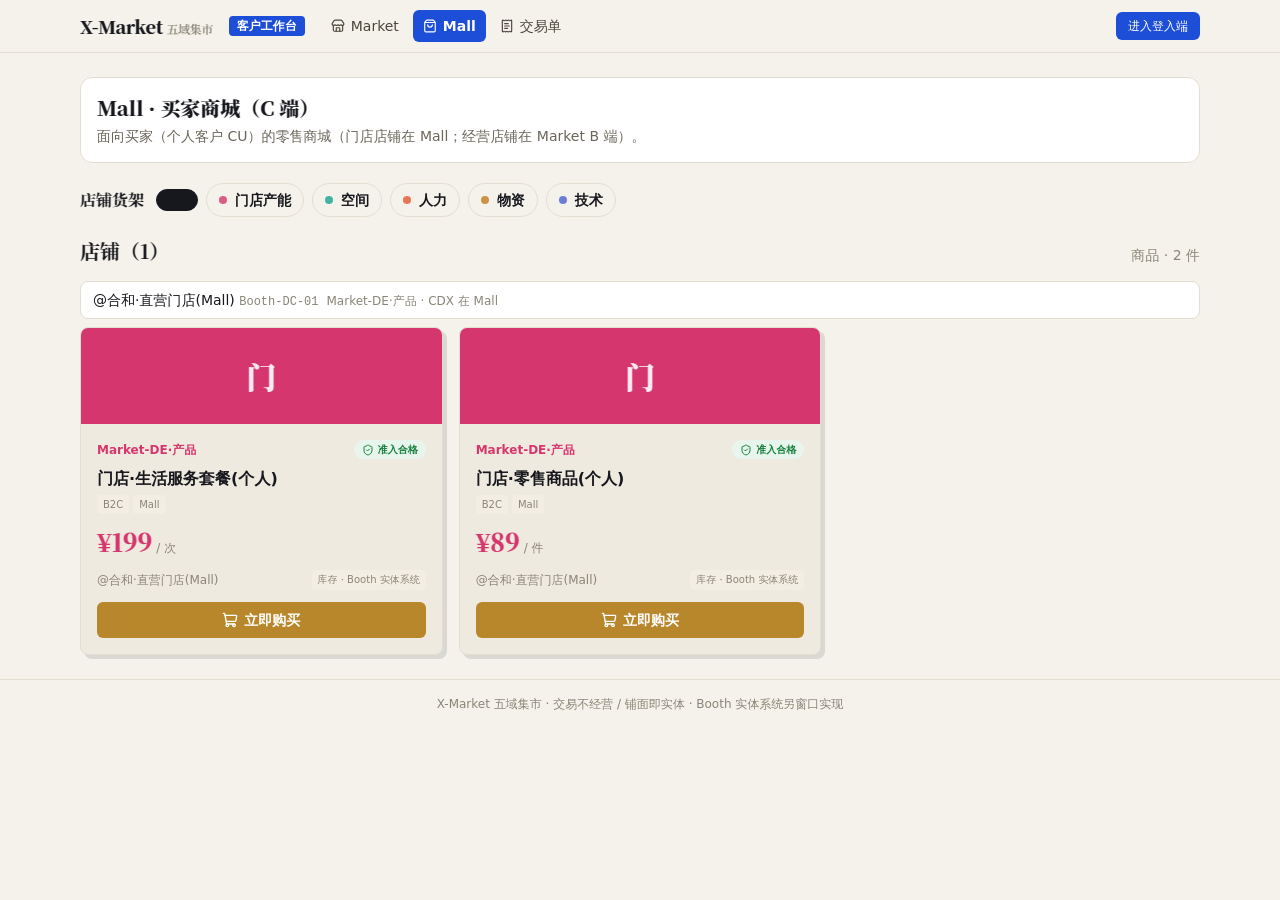
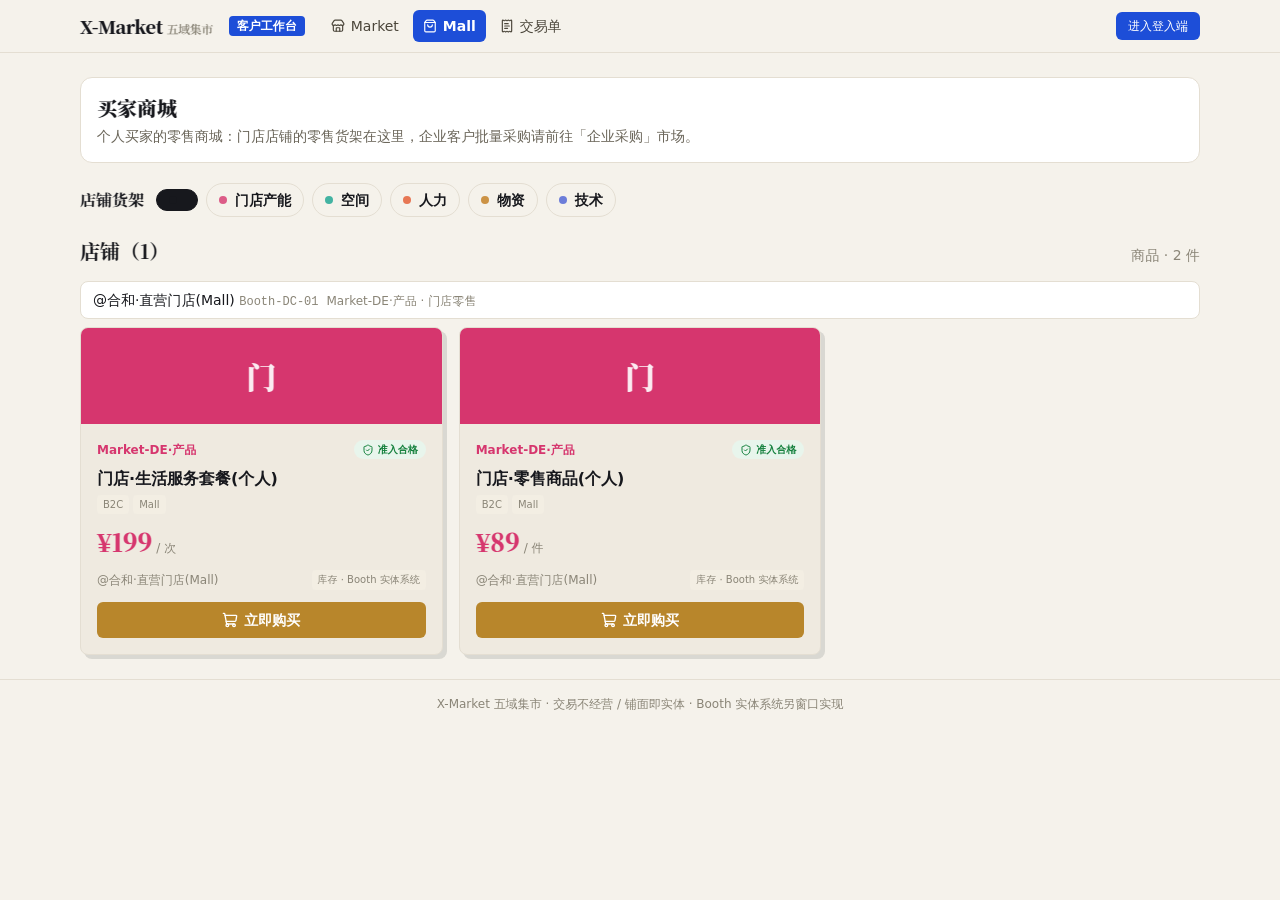
fix(ux): X-MARKET-UX-01 体验断链修复（P0 批次）
- FIX1 游客点「立即购买」弹「需要登入」确认卡（去登入端链接），嵌入/游客不再静默吞点击
- FIX2 待付款→「待店铺交付」+「演示环境暂不支持在线支付」说明（交易单页客户视角）
- FIX3 跳过引导持久化复现实证 4/4 已生效（脚本固化防回归）
- FIX4 下单成功横条加「查看交易单 →」一键跳转
- FIX5 留痕台账文案对齐实际（C 端购买不进审计，改越权/治理留痕口径）
- FIX6 术语收敛第一批：登入端企业容器/角色卡、交易单页、Mall、引导浮层去 DU/*U/V*M/六族等工程代号（六族折叠进详情）
- 回归：ux01-shots 15/15 + embed-e2e 8/8 + lint/ts-check 全绿

Changed region(s): [[0.0625, 0.0933, 0.5, 0.1556], [0.3438, 0.3111, 0.375, 0.3422]]

diff --git a/src/pages/Mall.tsx b/src/pages/Mall.tsx
@@ -2,7 +2,7 @@
 // X-MARKET-UE-02：商品卡营销化（价格/准入/店铺归属/库存归属）+ 立即购买确认弹层（P0 防误触下单）+ 双称呼试行。
 import { useEffect, useMemo, useState } from 'react';
 import { Link } from 'react-router-dom';
-import { FileClock, ShoppingCart, ShieldCheck, Minus, Plus, X } from 'lucide-react';
+import { FileClock, ShoppingCart, ShieldCheck, Minus, Plus, X, CheckCircle2, ArrowRight } from 'lucide-react';
 import { api } from '../api/client';
 import type { MallListing, DecoratedBooth } from '../api/client';
 import PowerAuditList from '../components/PowerAuditList';
@@ -27,6 +27,10 @@ export default function Mall() {
   // P0 防误触：点击立即购买先弹确认层
   const [buyTarget, setBuyTarget] = useState<BuyTarget | null>(null);
   const [buying, setBuying] = useState(false);
+  // UX-01 FIX1：游客（含嵌入握手未完成）点购买 → 登入引导弹层（严禁静默吞点击）
+  const [needLogin, setNeedLogin] = useState(false);
+  // UX-01 FIX4：下单成功回执条（含「查看交易单 →」一键跳转）
+  const [doneOrder, setDoneOrder] = useState<{ code: string; amountCents: number } | null>(null);
 
   useEffect(() => { void api.mallBooths().then(setBooths); }, []);
   useEffect(() => {
@@ -37,8 +41,9 @@ export default function Mall() {
   const mallBooths = booths.filter((b) => b.clientFace === 'mall' && (!active || b.marketCode === active));
 
   const openConfirm = (l: MallListing): void => {
-    if (!user) { setNotice('请先登录（买家 CU 自然人客户）'); return; }
+    if (!user) { setNeedLogin(true); return; }
     setNotice('');
+    setDoneOrder(null);
     setBuyTarget({ listing: l, qty: 1 });
   };
 
@@ -48,7 +53,7 @@ export default function Mall() {
     const { listing: l, qty } = buyTarget;
     setBuying(true);
     api.createOrder({ boothId: l.boothId, listingId: l.id, amountCents: l.priceCents * qty, side: 'C' })
-      .then((o) => { setNotice(`下单成功：${o.code} · ${money(o.amountCents)} · 待店铺交付`); setBuyTarget(null); })
+      .then((o) => { setDoneOrder({ code: o.code, amountCents: o.amountCents }); setNotice(''); setBuyTarget(null); })
       .catch((e: unknown) => setNotice(e instanceof Error ? e.message : '下单失败'))
       .finally(() => setBuying(false));
   };
@@ -56,8 +61,8 @@ export default function Mall() {
   return (
     <div>
       <div className="rounded-xl border bg-white p-4 mb-5">
-        <p className="font-serif-display text-xl font-black">Mall · 买家商城（C 端）</p>
-        <p className="mt-1 text-sm text-[#6b665a]">面向买家（个人客户 CU）的零售商城（门店店铺在 Mall；经营店铺在 Market B 端）。</p>
+        <p className="font-serif-display text-xl font-black">买家商城</p>
+        <p className="mt-1 text-sm text-[#6b665a]">个人买家的零售商城：门店店铺的零售货架在这里，企业客户批量采购请前往「企业采购」市场。</p>
       </div>
 
       <div className="mb-5 flex flex-wrap items-center gap-2">
@@ -68,13 +73,23 @@ export default function Mall() {
         ))}
       </div>
 
+      {doneOrder && (
+        <div className="mb-4 flex flex-wrap items-center justify-between gap-2 rounded-lg border border-[#bfe3c8] bg-[#eef8f0] px-4 py-2.5 text-sm text-[#166534]">
+          <span className="flex items-center gap-1.5 font-semibold">
+            <CheckCircle2 className="h-4 w-4" /> 下单成功 · {doneOrder.code} · {money(doneOrder.amountCents)} · 待店铺交付（演示环境暂不支持在线支付）
+          </span>
+          <Link to="/orders" className="inline-flex items-center gap-1 rounded-md bg-[#15803D] px-3 py-1.5 text-xs font-bold text-white hover:opacity-90">
+            查看交易单 <ArrowRight className="h-3.5 w-3.5" />
+          </Link>
+        </div>
+      )}
       {notice && <div className="mb-4 rounded-lg bg-[#e8e0cb] px-4 py-2 text-sm font-medium text-[#7a5c16]">{notice}</div>}
 
       <SectionTitle sub={`${conceptTerm('product').big} · ${listings.length} 件`}>店铺（{mallBooths.length}）</SectionTitle>
       {mallBooths.map((b) => (
         <Link key={b.id} to={`/mall/booth/${b.id}`} className="mb-2 block rounded-lg border bg-white px-3 py-2 text-sm hover:bg-[#efeae0]">
           @{b.name} <span className="font-mono text-xs text-[#8a8577]">{b.code}</span>
-          <span className="ml-2 text-xs text-[#8a8577]">{marketLabel(b.marketCode)} · CDX 在 Mall</span>
+          <span className="ml-2 text-xs text-[#8a8577]">{marketLabel(b.marketCode)} · 门店零售</span>
         </Link>
       ))}
 
@@ -126,7 +141,7 @@ export default function Mall() {
           <p className="flex items-center gap-2 font-serif-display text-lg font-black">
             <FileClock className="h-4 w-4" style={{ color: '#b8862b' }} /> 我的<DualTerm kind="powerAudit" />
           </p>
-          <p className="mt-1 text-xs text-[#8a8577]">购买与越权尝试全部留痕，仅本人可见。</p>
+          <p className="mt-1 text-xs text-[#8a8577]">越权操作与平台治理动作会留痕（购物进度请看上方交易单入口），仅本人可见。</p>
           <PowerAuditList scope="mine" accent="#b8862b" compact />
         </div>
       )}
@@ -166,6 +181,31 @@ export default function Mall() {
               <button onClick={confirmBuy} disabled={buying} className="flex-1 rounded-md bg-[#b8862b] py-2 text-sm font-semibold text-white hover:opacity-90 disabled:opacity-50">
                 {buying ? '下单中…' : '确认下单'}
               </button>
+            </div>
+          </div>
+        </div>
+      )}
+
+      {/* UX-01 FIX1：游客/嵌入未登入点购买 → 登入引导弹层（不静默吞点击） */}
+      {needLogin && (
+        <div className="fixed inset-0 z-50 flex items-center justify-center bg-black/40 px-4" onClick={() => setNeedLogin(false)}>
+          <div className="w-full max-w-sm rounded-xl border bg-white p-5 shadow-[4px_4px_0_rgba(23,24,29,0.2)]" onClick={(e) => e.stopPropagation()} role="dialog" aria-label="需要登入">
+            <div className="flex items-start justify-between gap-3">
+              <p className="font-serif-display text-lg font-black">需要登入后下单</p>
+              <button onClick={() => setNeedLogin(false)} className="rounded p-1 text-[#8a8577] hover:bg-[#efeae0]" aria-label="关闭">
+                <X className="h-4 w-4" />
+              </button>
+            </div>
+            <p className="mt-1 text-sm text-[#6b665a]">下单需要先登入买家 / 采购方账号（下单后由店铺直接安排交付，本演示环境无需在线支付）。</p>
+            <div className="mt-4 flex gap-2">
+              <button onClick={() => setNeedLogin(false)} className="flex-1 rounded-md border py-2 text-sm hover:bg-[#efeae0]">先逛逛</button>
+              <Link
+                to="/entrance"
+                className="flex flex-1 items-center justify-center gap-1 rounded-md bg-[#17181d] py-2 text-sm font-semibold text-white hover:opacity-90"
+                onClick={() => setNeedLogin(false)}
+              >
+                去登入端 <ArrowRight className="h-4 w-4" />
+              </Link>
             </div>
           </div>
         </div>

diff --git a/src/entrance/entrance.ts b/src/entrance/entrance.ts
@@ -10,8 +10,8 @@ export const containerOf = (hatRole: string | null | undefined): ContainerKind =
   hatRole === 'XU' || hatRole === 'CU' ? 'personal' : 'enterprise';
 
 export const CONTAINER_META: Record<ContainerKind, { code: string; name: string; desc: string; accent: string }> = {
-  personal: { code: '#xhpz', name: '个人容器', desc: '自然人视角：Mall 买家购物 / 企业客户采购（个人侧兼容入口）', accent: '#1D4ED8' },
-  enterprise: { code: '#xepz', name: '企业容器', desc: '单位视角：经营 DU / 供给 *U·EX / 治理 V*M（Market 与 Supply 双面）', accent: '#17181d' },
+  personal: { code: '#xhpz', name: '个人容器', desc: '个人购物与采购：商城买家购物 / 企业客户采购（个人侧兼容入口）', accent: '#1D4ED8' },
+  enterprise: { code: '#xepz', name: '企业容器', desc: '单位视角：开店经营 / 供货入驻 / 平台管理（一个企业账号可办理多种业务）', accent: '#17181d' },
 };
 
 /** 预留容器（本单不开放，仅置灰展示） */
@@ -27,25 +27,25 @@ export interface RoleBrief {
 
 /** 角色卡目录（角色·界面归位矩阵 v3 口径） */
 export const ROLE_BRIEF: Record<string, RoleBrief> = {
-  XU: { face: 'Market · 客户面', duty: '企业采购：五市场浏览 / B2B 询价报价 / 订单跟进；第二身份：客户资源供给方（B端客户资源 · 授权式贡献，不占权位）' },
-  CU: { face: 'Mall · 客户面', duty: '买家购物：商城浏览 / 立即购买 / 订单跟进；第二身份：客户资源供给方（C端客户资源 · 授权式贡献，不占权位）' },
-  DU: { face: 'Market · 经营面', duty: '分经营号经营（*DU）：铺面管理 / 询价报价 / 采购商城 / 履约衔接' },
-  DYX: { face: 'Market · 经营面', duty: '业务执行（*DX·L1）：履约执行回执 / 铺内作业（办位）' },
-  DHX: { face: 'Market · 经营面', duty: '业务执行（*DX·L1）：履约执行回执 / 铺内作业（办位）' },
-  DTX: { face: 'Market · 经营面', duty: '业务执行（*DX·L1）：履约执行回执 / 铺内作业（办位）' },
-  DEX: { face: 'Market · 经营面', duty: '业务执行（*DX·L1）：履约执行回执 / 铺内作业（办位）' },
-  DCX: { face: 'Market · 经营面', duty: '业务执行（*DX·L1）：履约执行回执 / 铺内作业（办位）' },
-  EU: { face: 'Supply · 供给面', duty: '通货供货商经营：准入登记 / 货品上下架 / 供给单接单报价' },
-  HU: { face: 'Supply · 供给面', duty: '人力供货商经营：准入登记 / 货品上下架 / 供给单接单报价' },
-  YU: { face: 'Supply · 供给面', duty: '云资源供货商经营：准入登记 / 货品上下架 / 供给单接单报价' },
-  TU: { face: 'Supply · 供给面', duty: '技术供货商经营：准入登记 / 货品上下架 / 供给单接单报价' },
-  EX: { face: 'Supply · 供给面', duty: '供给执行：物资登记 / 铺面维护 / 看单（办位）' },
-  EXX: { face: 'Supply · 供给面', duty: '供给执行：铺内作业 / 看单（办位）' },
-  VDM: { face: 'Market+Supply · 经营治理与管家审批面', duty: '总经营管理执行（归 OVM，X-MARKET-18 v1.2）：治理案件 / 规则 / 全局总账 / 三权审计 + supply 管家审批全域统筹（准入审核/货品审批/大额审批/阈值配置）' },
-  VEM: { face: 'Supply · 管家审批面', duty: 'E 源域内管家审批：通货源准入审核与货品审批（EMX）' },
-  VHM: { face: 'Supply · 管家审批面', duty: 'H 源域内管家审批：人力源准入审核与货品审批（HMX）' },
-  VYM: { face: 'Supply · 管家审批面', duty: 'Y 源域内管家审批：云资源源准入审核与货品审批（YMX）' },
-  VTM: { face: 'Supply · 管家审批面', duty: 'T 源域内管家审批：技术源准入审核与货品审批（TMX · 技术运营管理白名单兼任）' },
+  XU: { face: '企业采购', duty: '企业采购：浏览市场 / 询价报价 / 订单跟进；第二身份：客户资源供给方（客户资源可授权共享，自愿参与）' },
+  CU: { face: '买家商城', duty: '买家购物：逛商城 / 立即购买 / 订单跟进；第二身份：客户资源供给方（客户资源可授权共享，自愿参与）' },
+  DU: { face: '店铺经营', duty: '开店经营：铺面管理 / 询价报价 / 采购进货 / 履约衔接' },
+  DYX: { face: '店铺执行', duty: '店员执行：履约执行回执 / 铺内作业' },
+  DHX: { face: '店铺执行', duty: '店员执行：履约执行回执 / 铺内作业' },
+  DTX: { face: '店铺执行', duty: '店员执行：履约执行回执 / 铺内作业' },
+  DEX: { face: '店铺执行', duty: '店员执行：履约执行回执 / 铺内作业' },
+  DCX: { face: '店铺执行', duty: '店员执行：履约执行回执 / 铺内作业' },
+  EU: { face: '供货入驻', duty: '供货商经营：入驻登记 / 货品上下架 / 接单报价' },
+  HU: { face: '供货入驻', duty: '供货商经营：入驻登记 / 货品上下架 / 接单报价' },
+  YU: { face: '供货入驻', duty: '供货商经营：入驻登记 / 货品上下架 / 接单报价' },
+  TU: { face: '供货入驻', duty: '供货商经营：入驻登记 / 货品上下架 / 接单报价' },
+  EX: { face: '供货执行', duty: '供货助理：物资登记 / 铺面维护 / 看单' },
+  EXX: { face: '供货执行', duty: '供货助理：铺内作业 / 看单' },
+  VDM: { face: '平台管理', duty: '平台经营管理：治理案件 / 规则 / 全局总账 / 留痕台账 + 入驻审核 / 货品审批 / 大额订单审批 / 门槛配置' },
+  VEM: { face: '入驻审批', duty: '管家审批：物资货源入驻审核与货品审批' },
+  VHM: { face: '入驻审批', duty: '管家审批：人力货源入驻审核与货品审批' },
+  VYM: { face: '入驻审批', duty: '管家审批：空间货源入驻审核与货品审批' },
+  VTM: { face: '入驻审批', duty: '管家审批：技术货源入驻审核与货品审批' },
 };
 
 export const roleBriefOf = (role: string | null | undefined): RoleBrief =>

diff --git a/src/lib/onboarding.ts b/src/lib/onboarding.ts
@@ -59,7 +59,7 @@ const supplierSteps = (domainView: string | null | undefined): TourStep[] => {
     },
     {
       key: 'certify',
-      title: 'V*M 认证（等待 / 通过）',
+      title: '平台认证（等待 / 通过）',
       what: '等待管家审批家族认证你的供给资质；被驳回可修改后重新提交。',
       entryLabel: '供给集市 → 入驻记录（查看认证状态）',
       entryPath: '/supply',
@@ -79,12 +79,12 @@ const supplierSteps = (domainView: string | null | undefined): TourStep[] => {
       what: `在名下供给铺上架可售货品 / 产能（如：${t.goods}）。`,
       entryLabel: '供给台 → 我的货品 → 新增货品',
       entryPath: '/supplier',
-      done: '至少 1 个货品在架，可被 DU 采购。',
+      done: '至少 1 个货品在架，可被商家采购。',
     },
     {
       key: 'receive',
-      title: '接收 DU 采购单',
-      what: 'D*U 经营者从采购商城下单后，你会在交易单中收到采购单（供给方只对 DU 交易）。',
+      title: '接收商家采购单',
+      what: '商家经营者从采购商城下单后，你会在交易单中收到采购单（供给方只与商家交易）。',
       entryLabel: '供给台 → 交易单',
       entryPath: '/orders',
       done: '收到待履约采购单，进入履约准备。',
@@ -116,14 +116,14 @@ const operatorSteps = (hatRole: string | null | undefined): TourStep[] => {
       key: 'browse',
       title: '浏览供给四源集市',
       what: '在采购商城按源（物资 / 空间 / 人力 / 技术）浏览合格供应商的在架货品。',
-      entryLabel: '顶栏 → 采购商城（仅 DU 经营主体可进）',
+      entryLabel: '顶栏 → 采购商城（商家经营号专属）',
       entryPath: '/supply-mall',
       done: '能按源筛选并查看在架货品详情。',
     },
     {
       key: 'purchase',
       title: '发起采购',
-      what: '选好货品一键下单生成采购单；单笔超 5000 元会升级 V*M 审批（通过后生效）。',
+      what: '选好货品一键下单生成采购单；单笔超 5000 元会升级平台治理审批（通过后生效）。',
       entryLabel: '采购商城 → 货品卡 → 下单',
       entryPath: '/supply-mall',
       done: '采购单生成（待治理审批或待履约）。',
@@ -139,14 +139,14 @@ const operatorSteps = (hatRole: string | null | undefined): TourStep[] => {
     {
       key: 'resell',
       title: '商品上架自身铺',
-      what: '把到手的货品 / 产能挂到你的 DU 铺面，对客户可见可售。',
+      what: '把到手的货品 / 产能挂到你的商家铺面，对客户可见可售。',
       entryLabel: isExecHat ? '经营台 → 铺面 / 货品（按执行帽作业）' : '经营台 → 新开铺面 / 我的铺面',
       entryPath: '/operator',
-      done: 'DU 铺有在架货品，客户在 Market / Mall 可见。',
+      done: '商家铺有在架货品，客户在市场 / 商城可见。',
     },
     {
       key: 'serve',
-      title: '服务客户 XU / CU',
+      title: '服务客户',
       what: '客户在 Market 询价 → 你报价 → 签约 → 下单，形成 B2B 交易闭环。',
       entryLabel: '顶栏 → Market（询价报价面板）',
       entryPath: '/market',
@@ -164,7 +164,7 @@ const clientSteps = (hatRole: string | null | undefined): TourStep[] => {
       title: isCU ? '浏览商城' : '浏览市场',
       what: isCU
         ? '在 Mall 商城浏览商品卡（含准入徽章与店铺归属），进入店铺看详情。'
-        : '在 Market 按五大市场挑选 DU 经营铺，查看合格供给与在架货品。',
+        : '在市场按五大分类挑选商家经营铺，查看合格供给与在架货品。',
       entryLabel: isCU ? '顶栏 → Mall' : '顶栏 → Market',
       entryPath: isCU ? '/mall' : '/market',
       done: '找到目标商品 / 铺面。',
@@ -174,7 +174,7 @@ const clientSteps = (hatRole: string | null | undefined): TourStep[] => {
       title: '下单',
       what: isCU
         ? '点「立即购买」在确认弹层核对单价与数量后提交。'
-        : '走 B2B 流程：询价 → DU 报价 → 签合同 → 下单。',
+        : '走企业采购流程：询价 → 商家报价 → 签合同 → 下单。',
       entryLabel: isCU ? '商品卡 → 立即购买' : 'Market → 发起询价',
       entryPath: isCU ? '/mall' : '/market',
       done: '交易单生成，可在「交易单」查看。',

diff --git a/src/pages/Orders.tsx b/src/pages/Orders.tsx
@@ -37,7 +37,7 @@ export default function Orders() {
     ? '运营方/平台视角：可见管辖域全部订单（全局总账）。'
     : operator
       ? '铺主（DU/供给方）视角：仅可见名下 Booth 相关订单。'
-      : '客户视角（XU/CU）：仅可见自己下的订单（P3 隐私过滤）。';
+      : '买家 / 采购方视角：仅可见你自己下的交易单，对方商业信息已为你隐藏。';
 
   const totals = {
     count: orders.length,
@@ -54,12 +54,15 @@ export default function Orders() {
         当前身份 {user?.hat ? hatLabel(role ?? '') : '未登录'}：{scopeNote}
       </div>
 
-      <div className="mb-4 flex flex-wrap items-center gap-1.5 rounded-lg border border-[#e4ded2] bg-[#fbf9f4] px-3 py-2 text-[11px] text-[#6b665a]">
-        <span className="mr-1 font-semibold text-[#17181d]">订单六族：</span>
-        {FAMILIES.map((f) => (
-          <span key={f.code} className={`rounded px-1.5 py-0.5 font-semibold text-white ${f.tone}`}>{f.code} {f.name}</span>
-        ))}
-      </div>
+      <details className="mb-4 rounded-lg border border-[#e4ded2] bg-[#fbf9f4] px-3 py-2 text-[11px] text-[#6b665a]">
+        <summary className="cursor-pointer select-none text-[11px] font-semibold text-[#17181d]">订单编号规则说明（分类前缀）</summary>
+        <div className="mt-2 flex flex-wrap items-center gap-1.5">
+          {FAMILIES.map((f) => (
+            <span key={f.code} className={`rounded px-1.5 py-0.5 font-semibold text-white ${f.tone}`} title={f.name}>{f.code} {f.name}</span>
+          ))}
+          <span>· 编号首字母代表订单分类（零售 / 门店产能 / 人力 / 物资 / 空间 / 技术），用于系统归类，不影响使用。</span>
+        </div>
+      </details>
 
       <div className="mb-4 grid grid-cols-2 gap-3 sm:max-w-md">
         <div className="paper-card hard-shadow rounded-lg px-4 py-3"><div className="text-xs text-[#8a8577]">可见交易单</div><div className="ticker-font text-2xl font-black">{totals.count}</div></div>
@@ -67,10 +70,16 @@ export default function Orders() {
       </div>
 
       {isClientRole && (
-        <div className="mb-4 rounded-lg border border-[#e4ded2] bg-[#faf7f0] px-3 py-2 text-xs leading-5 text-[#6b665a]">
-          <p className="font-bold text-[#17181d]">合同对手与售后（DU 承载）</p>
-          <p>合同对手：{user?.hatRole === 'CU' ? 'Booth-DC 门店（DU 直营）' : 'DU 经营主体'}；供给方名称与 DU 采购合同不对客户展示。</p>
-          <p>发票流：供给方 → DU（进项票）→ 客户（DU 开具销售票）。售后：联系 DU，责任转移点 = 交付回执，DU 向供给方追偿。</p>
+        <div className="mb-4 space-y-2">
+          <div className="rounded-lg border border-[#f0d9a8] bg-[#fdf6e7] px-3 py-2 text-xs leading-5 text-[#7a5c16]">
+            <p className="font-bold text-[#7a5c16]">关于付款：演示环境暂不支持在线支付</p>
+            <p>下单后交易单进入「待店铺交付」状态，无需任何付款操作，由店铺直接安排备货与履约；交付进度在本页展开订单查看。</p>
+          </div>
+          <div className="rounded-lg border border-[#e4ded2] bg-[#faf7f0] px-3 py-2 text-xs leading-5 text-[#6b665a]">
+            <p className="font-bold text-[#17181d]">合同与售后说明</p>
+            <p>交易对手：{user?.hatRole === 'CU' ? '入驻门店（平台直营）' : '经营商家'}；供货商名称与商家采购合同不对买家展示。</p>
+            <p>发票与售后：发票由商家开具；售后直接联系商家，交付确认后责任由商家承担，商家再与供货商结算。</p>
+          </div>
         </div>
       )}
 
@@ -94,7 +103,7 @@ export default function Orders() {
                   <div className="flex items-center gap-2">
                     <span className="font-mono text-xs font-bold">{o.code}</span>
                     <FamBadge family={o.family} />
-                    <span className="rounded bg-[#efeae0] px-1.5 py-0.5 text-[11px] font-semibold">{isC ? 'Mall·C端' : 'Market·B端'}</span>
+                    <span className="rounded bg-[#efeae0] px-1.5 py-0.5 text-[11px] font-semibold">{isC ? '商城购买' : '企业采购'}</span>
                     {o.boothCode && (
                       <Link
                         to={isC ? `/mall/booth/${o.boothId}` : `/market/booth/${o.boothId}`}

diff --git a/src/lib/domain.ts b/src/lib/domain.ts
@@ -82,7 +82,7 @@ export const isOperatorRole = (role: string | null | undefined): boolean => {
 };
 
 export const ORDER_STATUS: Record<string, { label: string; color: string }> = {
-  pending: { label: '待付款', color: '#b8862b' },
+  pending: { label: '待店铺交付', color: '#b8862b' },
   paid: { label: '已支付', color: '#17a290' },
   fulfilling: { label: '履约中', color: '#4a5fd5' },
   done: { label: '已完成', color: '#6b665a' },

diff --git a/AGENTS.md b/AGENTS.md
@@ -302,3 +302,13 @@
 - **realm 期望值对齐（关键）**：真实 ZiwayOS 签发 **`realm:'xhpz'`**（主 Agent 真票实测）——`EXPECTED_REALM` 默认 'market'→**'xhpz'**（env `ZIWAY_EMBED_REALM` 仍可覆盖）；不改则真票 403 realm 不匹配。
 - **自测升级**：mock（embed-verify-mock.mjs）成功路径全部改为**包装格式** `{code:200,data:{...}}`（realm xhpz）+ 新增 `zt_bare_` 裸格式兼容用例 + 失败路径 `{code,message}`；`embed-exchange-check.mjs` **7/7**（包装 200 会话/裸格式 200 会话/重放 401/role 403/realm 403/app 401/非法 400）；**真域失败分支实证**：恢复常态（verify 指真域）后 exchange 假票 → 401 `reason:"ticket 不存在或已过期"`（message 透出）。
 - **真票端到端脚本（主 Agent 执行）**：`node scripts/embed-real-verify-check.mjs <zt_真票> [基址，默认 http://localhost:5000]`——三断言：真票 exchange 200 会话（xm_ token+CU）→ token 调 /api/auth/me 200 → 同票重放 401；本地 dev 默认 ZIWAY_EMBED_BASE 指真实 ZiwayOS（服务端到服务端），真票本地即可核销。
+
+## X-MARKET-UX-01 体验断链修复（P0 批次）
+
+- **FIX1 游客购买引导（Mall.tsx）**：游客（含嵌入手柄中）点「立即购买」不再静默吞点击（原仅顶部黄条易出视口）——弹「需要登入」确认卡（文案「下单前需要先登入」+主按钮 Link /entrance「去登入端 →」+次按钮「先逛逛」）；登录用户维持原确认下单弹层。
+- **FIX2 待付款状态改向（domain.ts+Orders.tsx）**：`ORDER_STATUS.pending` label '待付款'→**'待店铺交付'**（客户交易单页视角；工作台侧 ORDER_STATUS_META pending '待履约' 不变）；客户视角说明块新增「演示环境暂不支持在线支付：下单后由店铺直接安排履约，无需付款操作」——真支付另立业务单。
+- **FIX3 跳过引导持久化（复现实证已生效）**：OnboardingTour closeWith('skipped')→writeTourState(uid,'skipped',kind)→localStorage xm_tour_v1 按 hatId——`scripts/ux01-tour-skip-check.mjs` 4/4（首登弹/跳过关/存储有记录/同号重登不弹）；UX 报告现象与当前实现不符（疑旧版或路径差异），脚本固化防回归。
+- **FIX4 下单成功引导（Mall.tsx）**：CU 下单成功由一次性 notice 升级为**成功横条**（绿底 CheckCircle2：「下单成功 · 单号 · 金额 · 待店铺交付」+Link「查看交易单 →」/orders）；错误反馈仍走 notice。
+- **FIX5 留痕台账文案对齐（Mall.tsx）**：C 端购买不进三权审计（createOrder 无 checkPower）——原「购买与越权尝试全部留痕」不实，改「越权操作与平台治理动作会留痕（购物订单见交易单页），仅本人可见」。
+- **FIX6 术语收敛第一批（主界面去工程代号）**：entrance.ts 企业容器 desc「经营 DU / 供给 *U·EX / 治理 V*M（Market 与 Supply 双面）」→「单位视角：开店经营 / 供货入驻 / 平台管理（多角色企业账号）」；ROLE_BRIEF duty/face 全用户语言化（去 *DU/*DX·L1/EMX/（办位）/X-Supply 等代号）；Orders.tsx「客户视角（XU/CU）」→「买家 / 采购方视角」、「（P3 隐私过滤）」→「为保护双方隐私，对方名称与进价信息不在列表展示」、订单六族条折叠 `<details>「订单编号规则说明」`（详情层保留 C/D/H/E/Y/T）；'Mall·C端'/'Market·B端'→'商城购买'/'企业采购'、'合同对手与售后（DU 承载）'→'合同与售后说明'、CU 侧「供货商→商家（进项）→你」用户语言化；Mall 副标/门店行/留痕块去 '（个人客户 CU）'/'CDX 在 Mall' 等代号；onboarding.ts 三套引导步骤去 *DU/*DX/V*M 代号（如「采购商城（*DU 分店）」→「采购商城」）。
+- **验收证据（scripts/ux01-shots.mjs 15/15+截图 assets/ux01/）**：A 游客购买弹登入引导（弹窗+链接）/B 登录下单→成功横条→一键到交易单/C 交易单页「买家 / 采购方视角」+「演示环境暂不支持在线支付」+六族折叠且主界面 0 曝光/D 登入端企业容器用户语言+工程代号 0 命中/E Mall 代号 0 命中；FIX3 脚本 4/4；**EMBED-01 协议回归 embed-e2e 8/8**（iframe 握手/免登/嵌入壳隐藏/非嵌入 Header 正常）；lint/ts-check 全绿。
